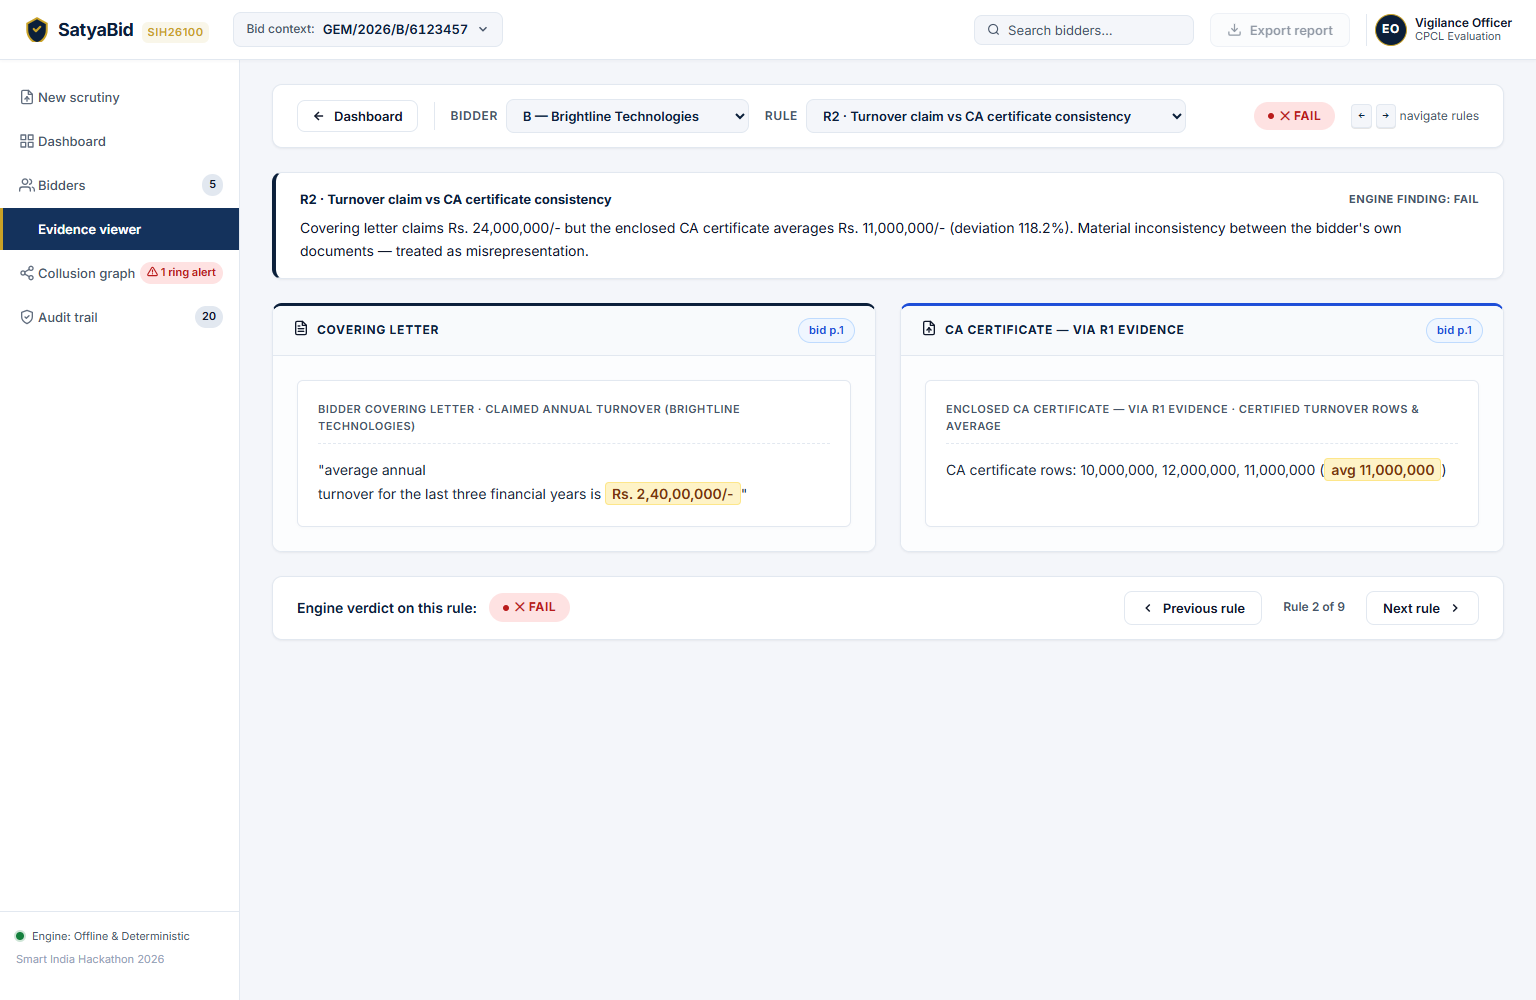
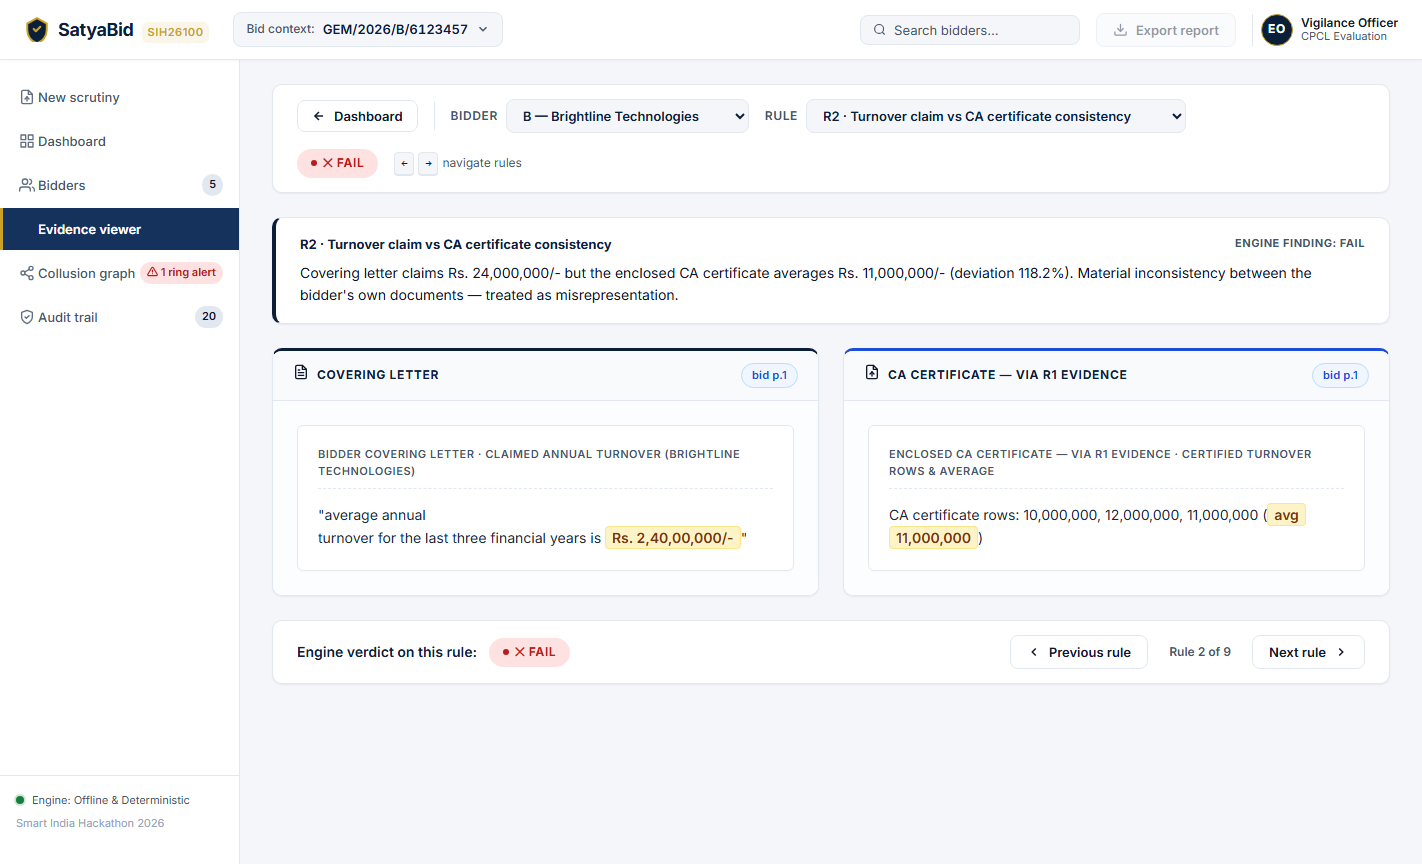
fix(final): remove dead fallback code, refresh verification screenshots

diff --git a/mvp/web/app.js b/mvp/web/app.js
@@ -95,6 +95,25 @@ function highlightKeyFigures(text) {
     .replace(/(GFR\s+Rule\s+144\(xi\))/gi, '<mark class="hl">$1</mark>');
 }
 
+function formatSpeakingOrder(text) {
+  if (!text) return '';
+  const lines = text.split('\n');
+  const formattedLines = lines.map(line => {
+    const trimmed = line.trim();
+    if (trimmed.startsWith('•') || trimmed.startsWith('-') || trimmed.startsWith('*')) {
+      const colonIdx = trimmed.indexOf(':');
+      if (colonIdx > -1) {
+        const title = trimmed.substring(0, colonIdx);
+        const rest = trimmed.substring(colonIdx + 1);
+        return `<div class="speaking-order-bullet"><strong>${title}:</strong> ${highlightKeyFigures(rest)}</div>`;
+      }
+      return `<div class="speaking-order-bullet">${highlightKeyFigures(trimmed)}</div>`;
+    }
+    return `<div class="speaking-order-lead">${highlightKeyFigures(trimmed)}</div>`;
+  });
+  return formattedLines.join('');
+}
+
 const RULES_LIST = [
   { id: "R1", name: "R1 · Minimum average annual turnover", short: "R1 Turnover floor" },
   { id: "R2", name: "R2 · Turnover claim vs CA certificate consistency", short: "R2 Claim vs Cert" },
@@ -1429,10 +1448,6 @@ class SatyaBidApp {
         }) || {};
         const signals = cdEdge.signals || [];
 
-        // Fix 1: Sourced directly from signal payload
-        const dirSignal = signals.find(s => s.type === 'shared_directors');
-        const dirDetail = dirSignal ? dirSignal.detail : 'Common directors/partners: Anita Desai, Vikram Shah';
-
         const rows = signals.map(s => `
           <div class="signal-row-item">
             <div class="signal-item-text">
@@ -1460,9 +1475,9 @@ class SatyaBidApp {
         }) || {};
         const signals = beEdge.signals || [];
 
-        // Fix 2: Sourced directly from price_proximity signal payload
+        // Sourced directly from price_proximity signal payload
         const priceSig = signals.find(s => s.type === 'price_proximity');
-        const priceDetail = priceSig ? priceSig.detail : 'Quoted prices within 1.30% (Rs. 45,500,000 vs Rs. 46,100,000) — possible cover bidding';
+        const priceDetail = priceSig ? priceSig.detail : 'Price-proximity signal unavailable from engine';
 
         let extraE = '';
         if (bId === 'E') {
@@ -1479,13 +1494,13 @@ class SatyaBidApp {
         signalsHTML = `
           <div class="signals-list-wrap">
             <div style="font-size: 13px; font-weight: 700; color: var(--navy-900); margin-bottom: 4px;">
-              Cross-Bidder Relationship (B ↔ E) · Score: ${beEdge.score || 0.70} (LOW Risk)
+              Cross-Bidder Relationship (B ↔ E) · Score: ${beEdge.score !== undefined ? Number(beEdge.score).toFixed(2) : '—'} (LOW Risk)
             </div>
             <div class="signal-row-item">
               <div class="signal-item-text">
                 <strong>price_proximity</strong>: ${priceDetail}
               </div>
-              <div class="signal-item-weight low-weight">+${Number(priceSig ? priceSig.weight : 0.7).toFixed(2)}</div>
+              <div class="signal-item-weight low-weight">${priceSig && priceSig.weight !== undefined ? `+${Number(priceSig.weight).toFixed(2)}` : '—'}</div>
             </div>
             ${extraE}
             <div class="signals-action-wrap">
@@ -2380,11 +2395,12 @@ class SatyaBidApp {
       const p = e.payload || {};
 
       if (e.event === 'pipeline_started') {
-        const bidsCount = (p.bids || []).length || 5;
-        detailsSummary = `Scrutiny pipeline initiated for tender <code>${p.tender || 'tender.pdf'}</code> with ${bidsCount} bids (Bidders A, B, C, D, E)`;
+        const bidsCount = (p.bids || []).length;
+        const countDesc = bidsCount > 0 ? `${bidsCount} bids` : 'all bids';
+        detailsSummary = `Scrutiny pipeline initiated for tender <code>${p.tender || 'tender.pdf'}</code> with ${countDesc} (Bidders A, B, C, D, E)`;
       } else if (e.event === 'tender_blueprinted') {
         const reqs = p.requirements || [];
-        detailsSummary = `8 compliance requirements extracted (${reqs.slice(0, 4).join(', ')}, …)`;
+        detailsSummary = `${reqs.length} compliance requirements extracted (${reqs.slice(0, 4).join(', ')}, …)`;
       } else if (e.event === 'tender_sealed') {
         const sha = p.sha256 || '';
         detailsSummary = `Tender specification cryptographic hash recorded: <code>${sha.substring(0, 16)}…</code>`;
@@ -2395,9 +2411,9 @@ class SatyaBidApp {
       } else if (e.event === 'bidder_ingested') {
         detailsSummary = `Bidder ${p.bidder} (${p.name || ''}) ingested · Doc author metadata: <code>${p.doc_author || 'n/a'}</code>`;
       } else if (e.event === 'doc_forensics') {
-        detailsSummary = `Document metadata forensics: ${p.findings || 12} findings, ${p.shared_markers || 9} shared cross-bidder markers detected`;
+        detailsSummary = `Document metadata forensics: ${p.findings !== undefined ? p.findings : '—'} findings, ${p.shared_markers !== undefined ? p.shared_markers : '—'} shared cross-bidder markers detected`;
       } else if (e.event === 'ml_forensics') {
-        detailsSummary = `ML NLP forensics: ${p.paraphrase_findings || 1} cross-bidder paraphrase finding detected (${p.pairs_flagged || 1} pair flagged: C ↔ D)`;
+        detailsSummary = `ML NLP forensics: ${p.paraphrase_findings !== undefined ? p.paraphrase_findings : '—'} cross-bidder paraphrase finding detected (${p.pairs_flagged !== undefined ? p.pairs_flagged : '—'} pair flagged: C ↔ D)`;
       } else if (e.event === 'collusion_analysis') {
         const ringsStr = (p.rings || []).map(r => r.join('+')).join(', ') || 'none';
         detailsSummary = `${(p.edges || []).length} cross-bidder edge(s) evaluated · High-risk cartel ring(s): <strong>${ringsStr}</strong>`;
